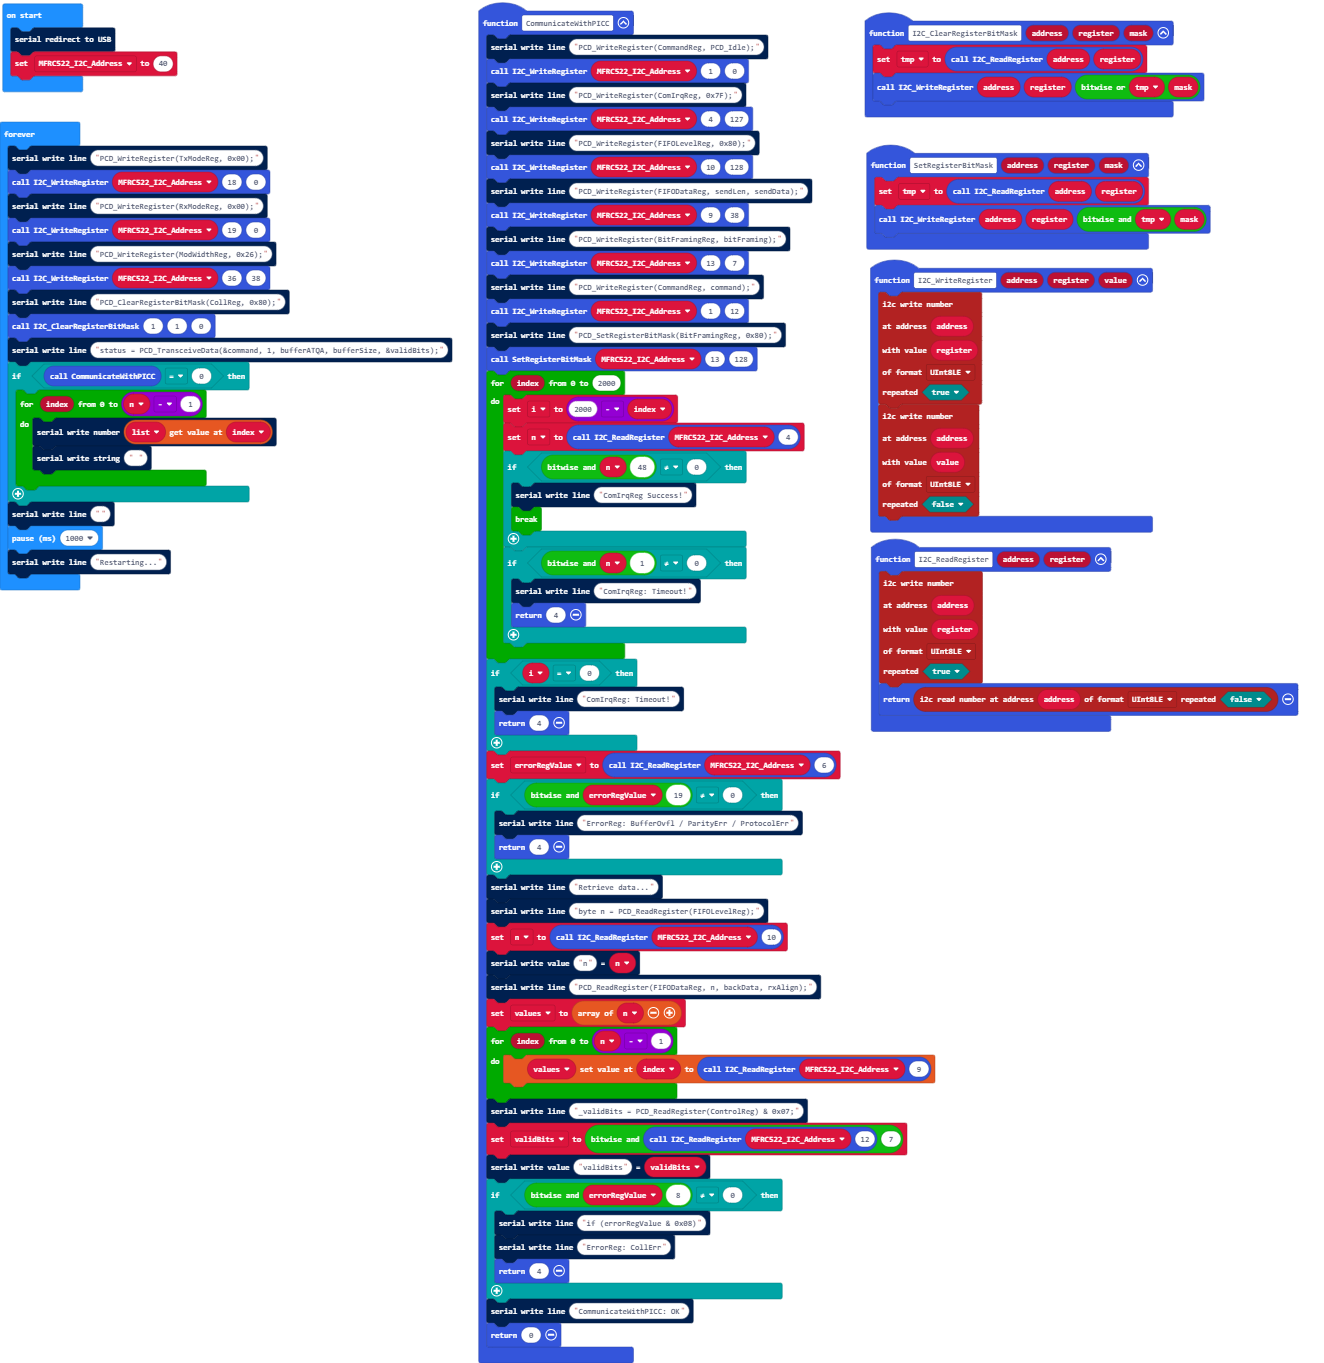
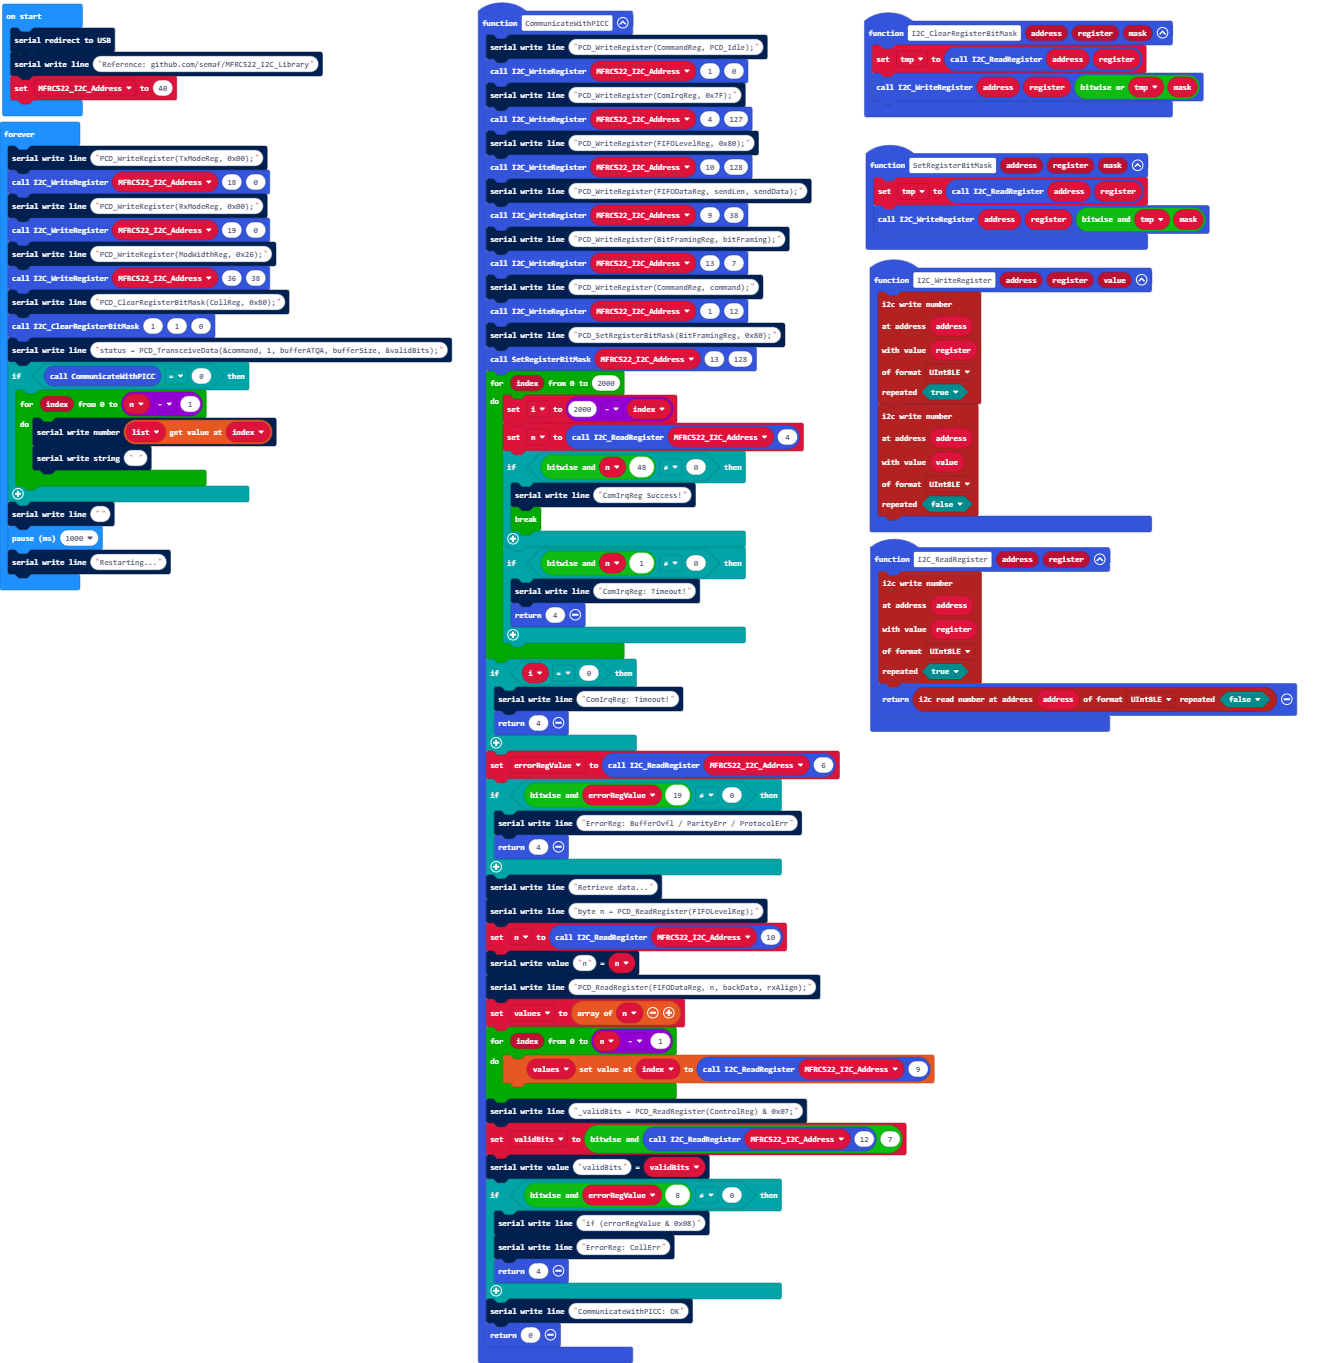
Add reference

Changed region(s): [[0.0, 0.0, 0.2479, 0.0924], [0.6818, 0.1849, 0.8677, 0.2157]]

diff --git a/main.ts b/main.ts
@@ -93,6 +93,7 @@ let i = 0
 let tmp = 0
 let MFRC522_I2C_Address = 0
 serial.redirectToUSB()
+serial.writeLine("Reference: github.com/semaf/MFRC522_I2C_Library")
 MFRC522_I2C_Address = 40
 basic.forever(function () {
     serial.writeLine("PCD_WriteRegister(TxModeReg, 0x00);")
